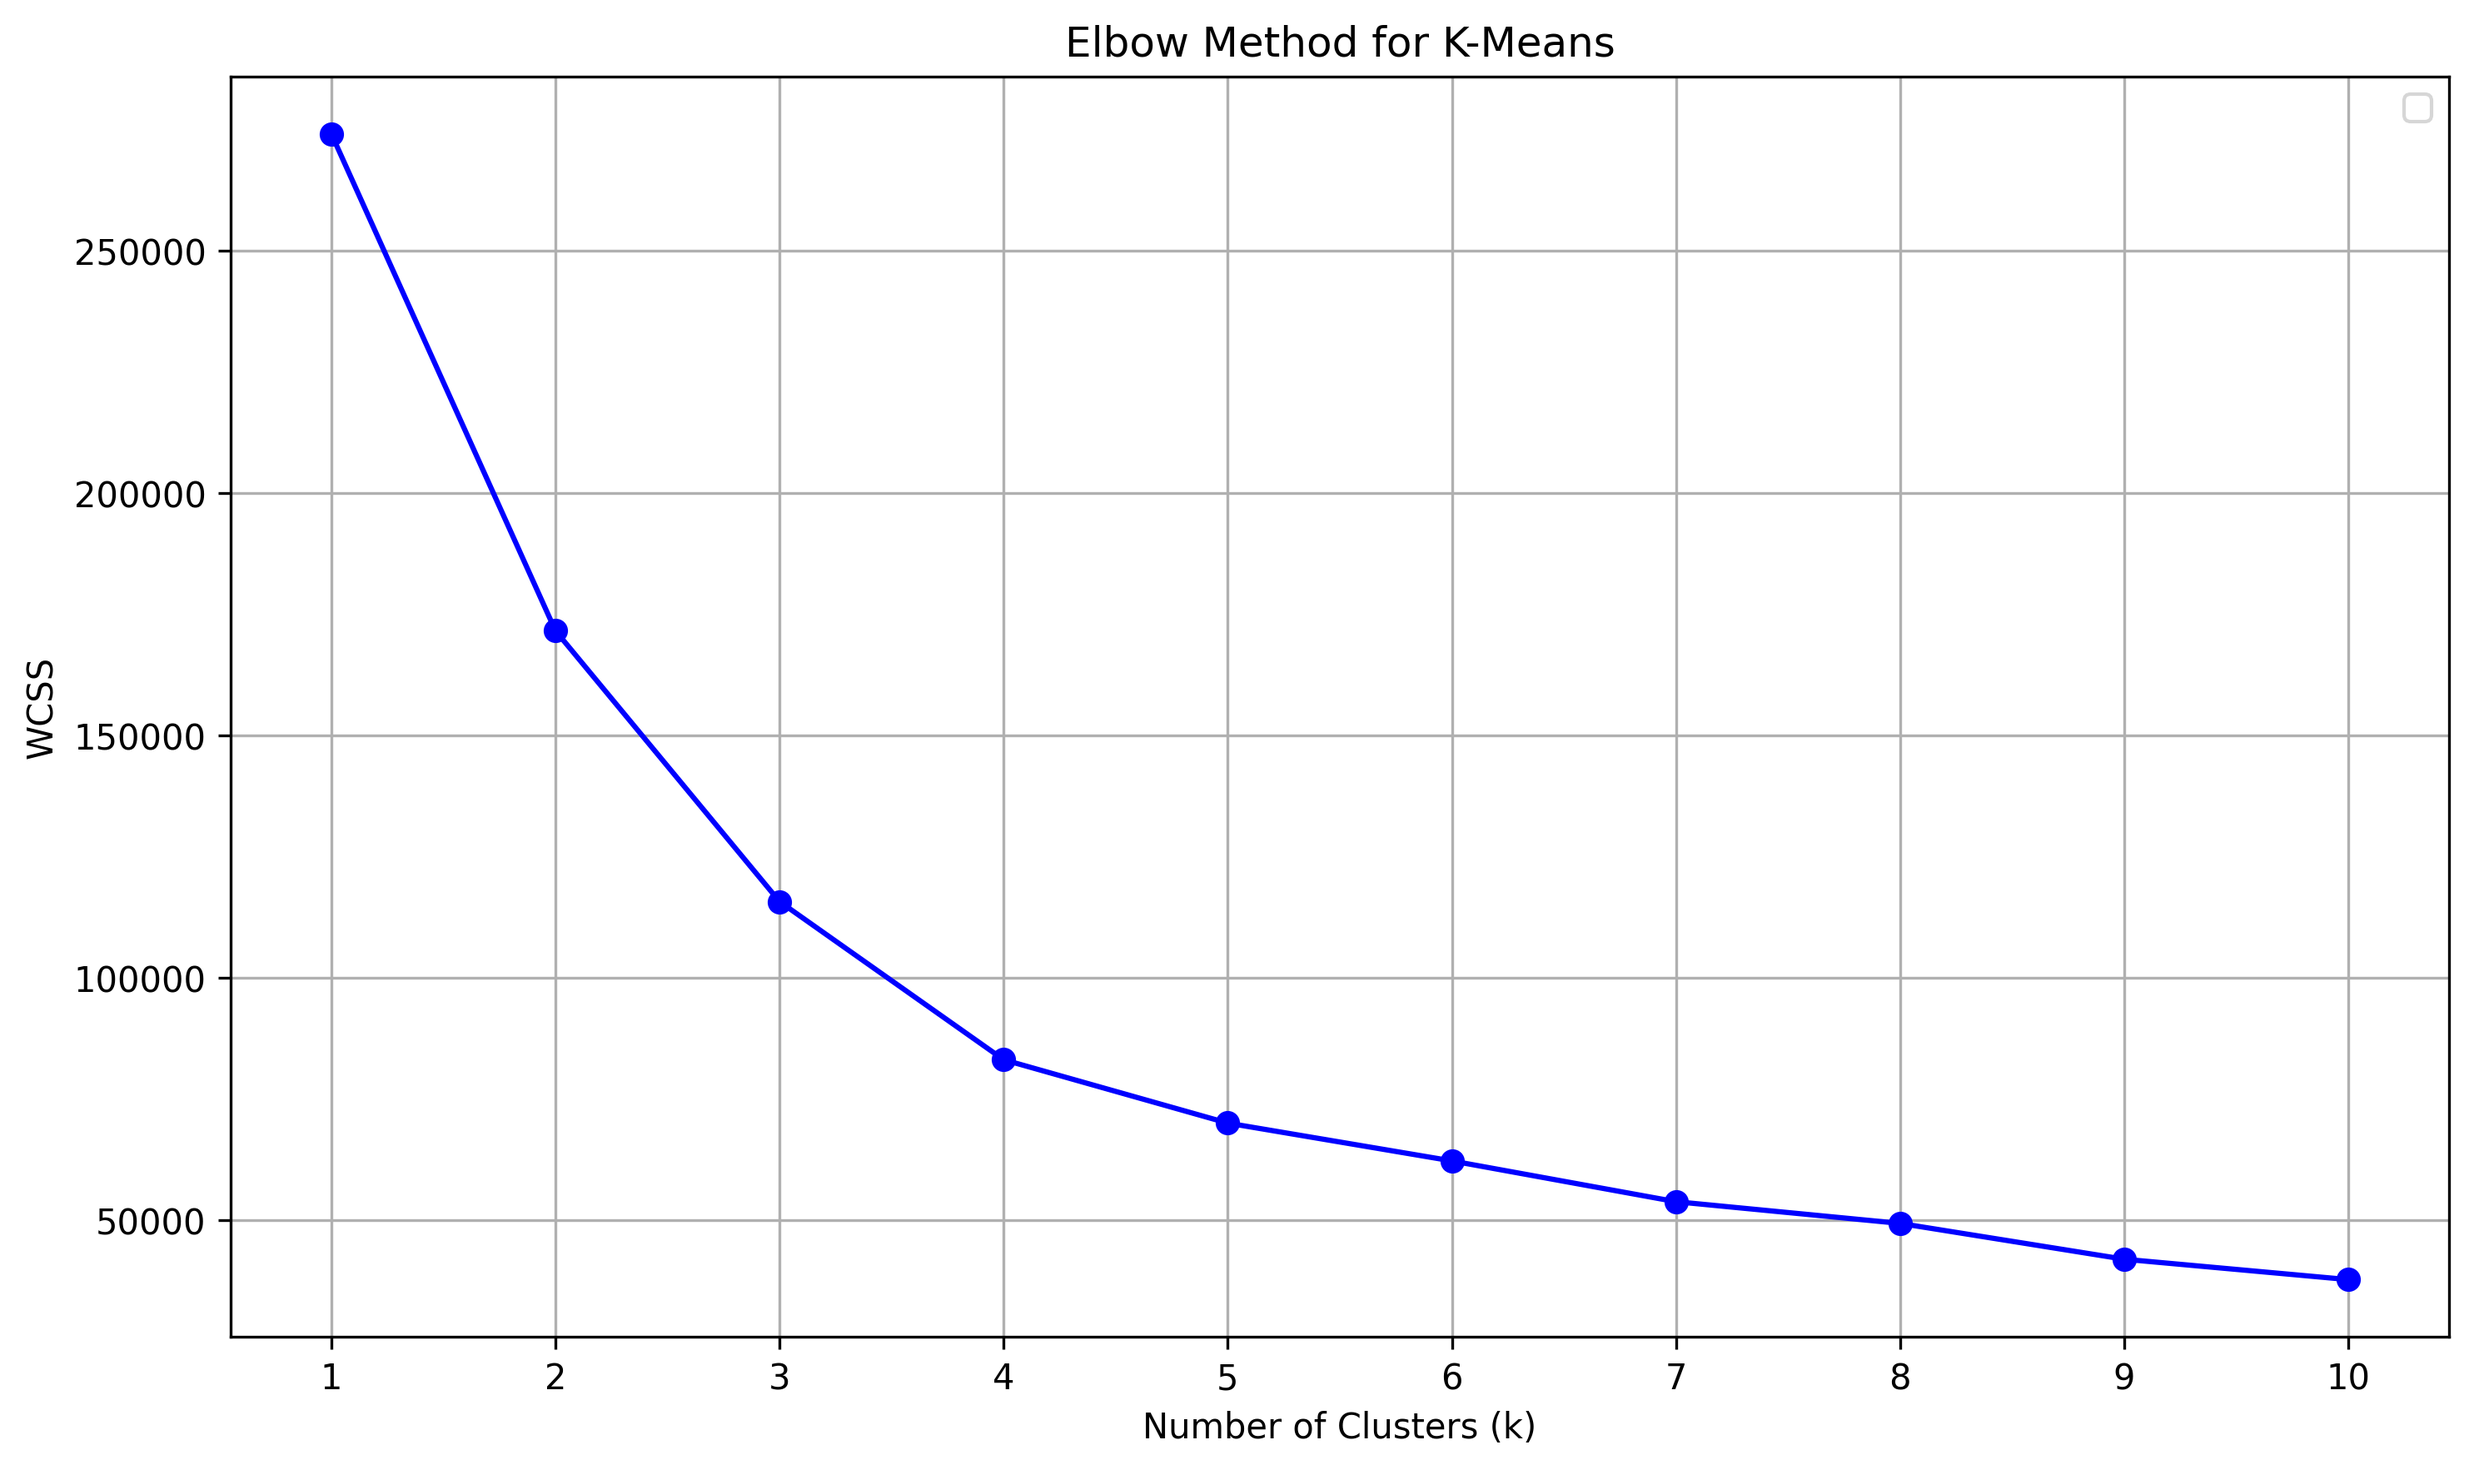
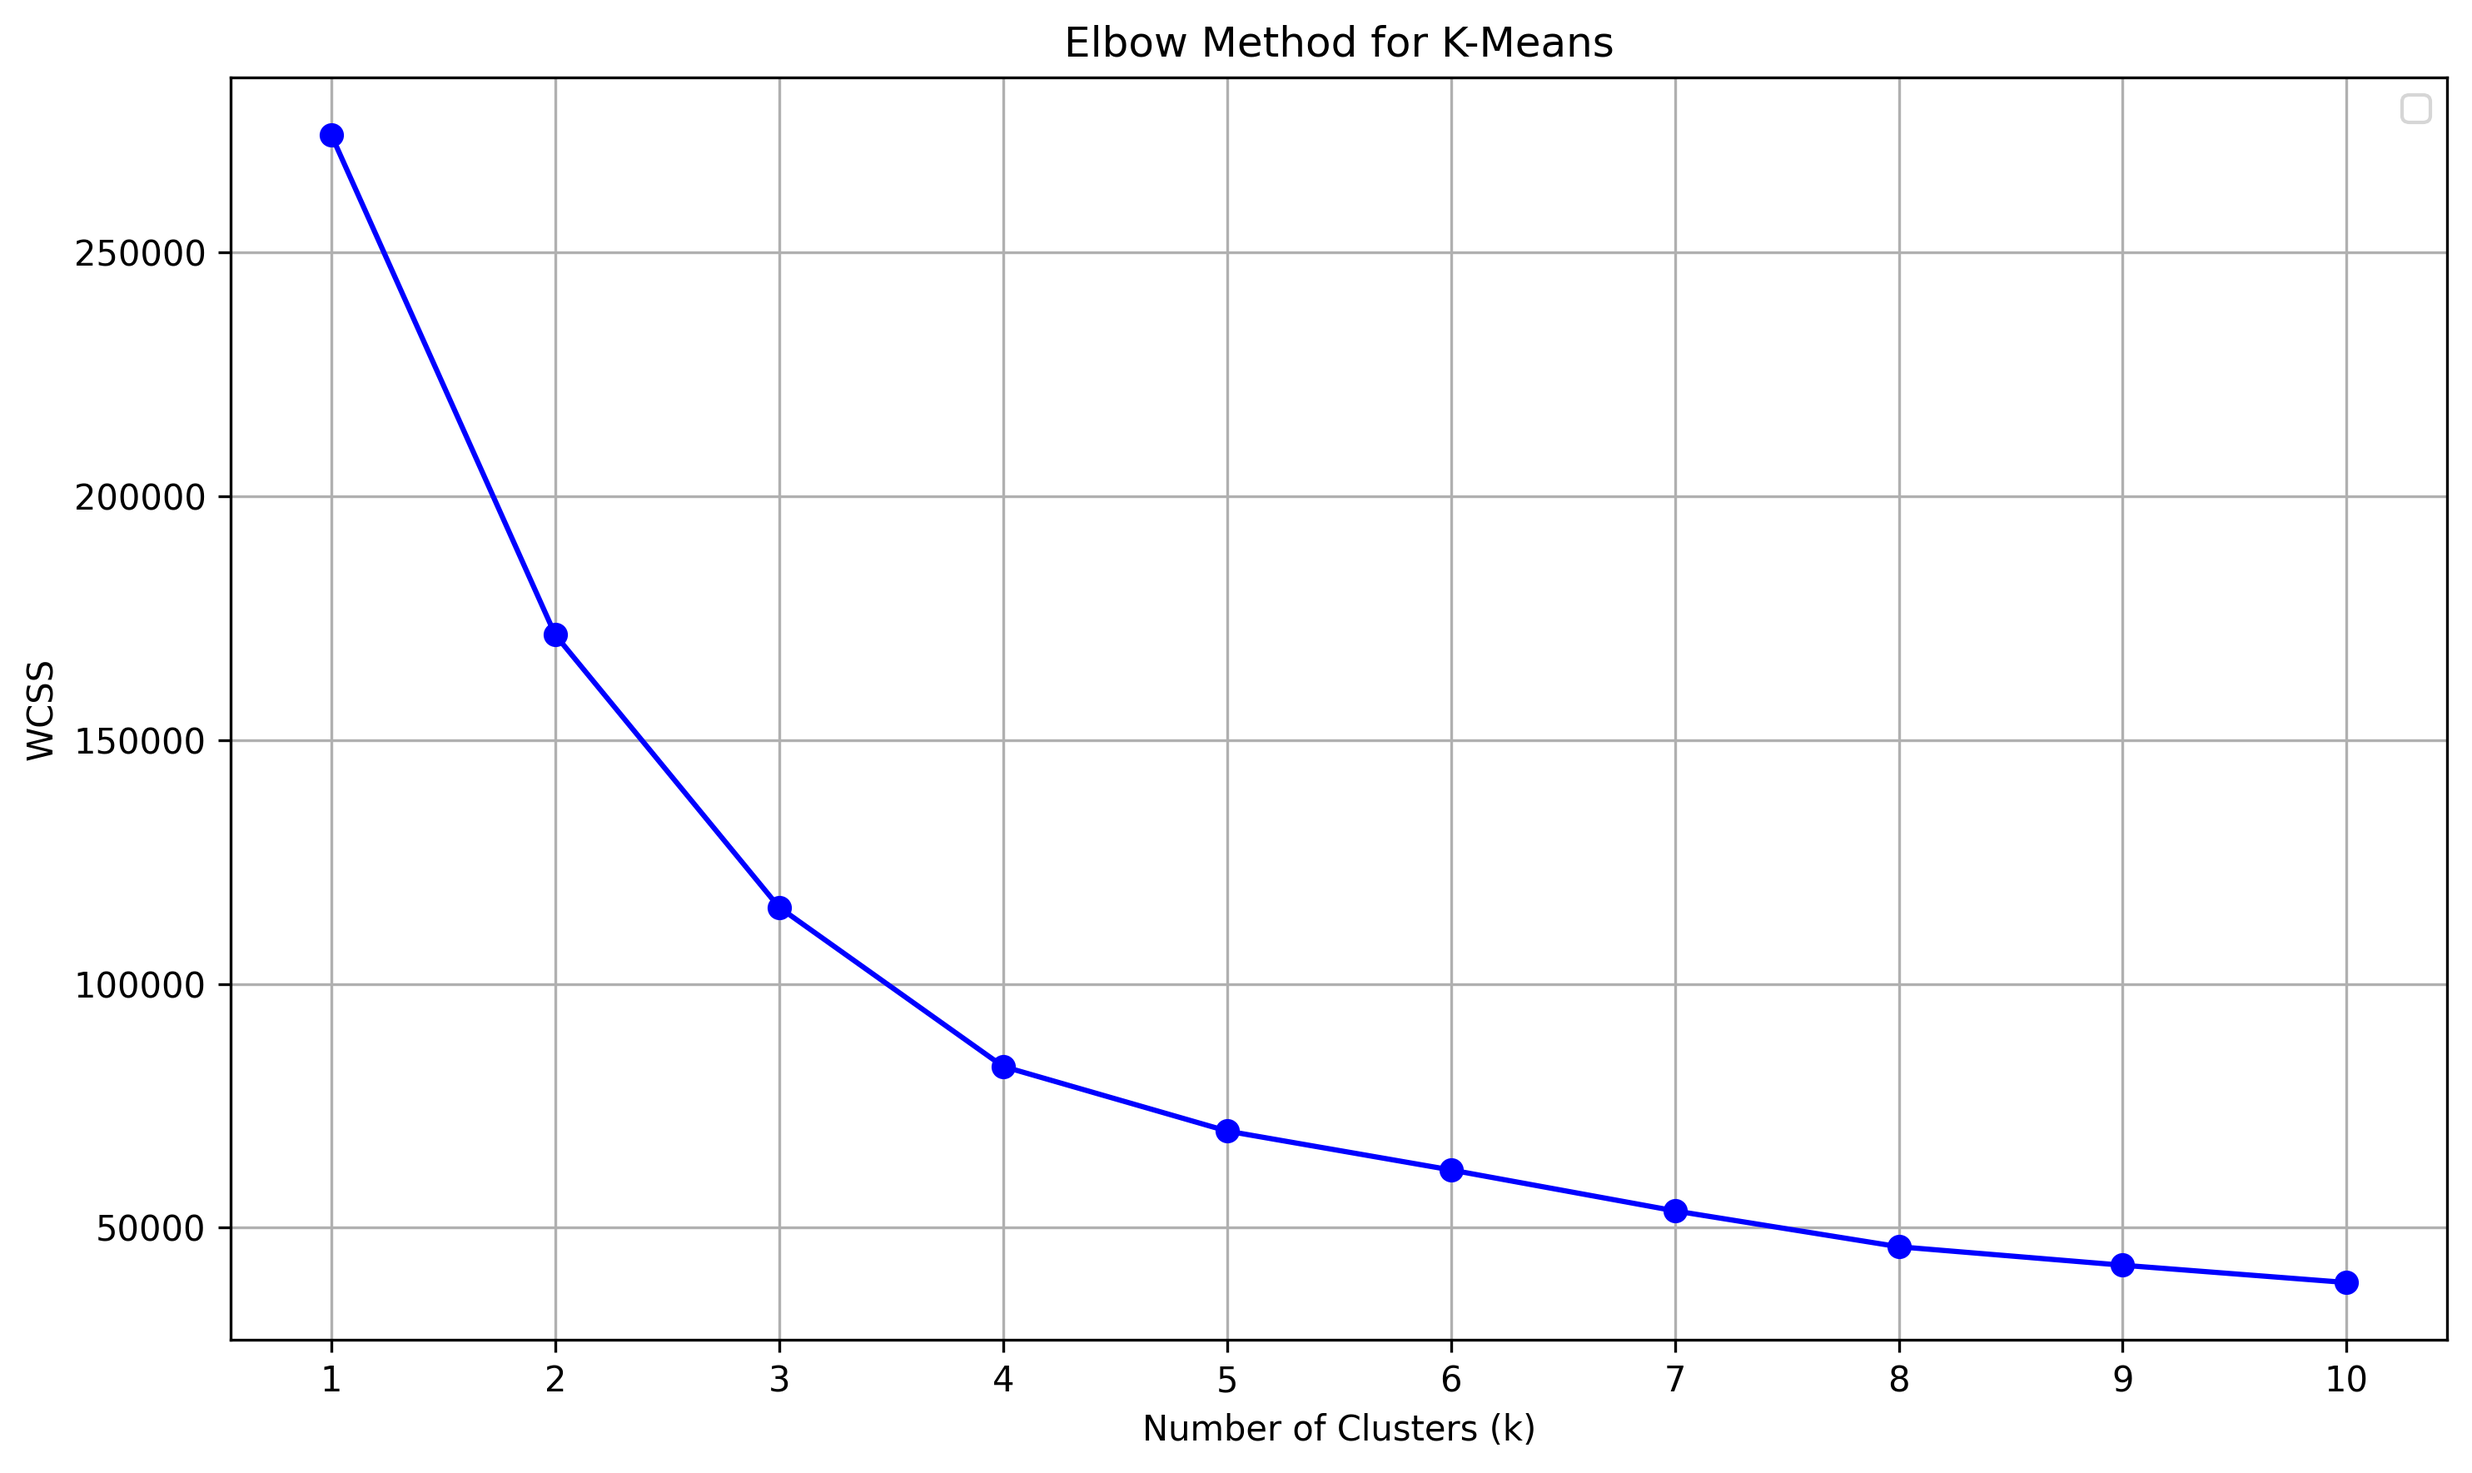
nilai wcss kmeans

diff --git a/09-evaluation/elbow.py b/09-evaluation/elbow.py
@@ -1,4 +1,5 @@
 import pickle
+import numpy as np
 import pandas as pd
 from sklearn.cluster import KMeans
 import matplotlib.pyplot as plt
@@ -31,9 +32,10 @@ RFM_numerical = pd.DataFrame(RFMD_final, columns=['recency', 'frequency', 'monet
 inertias = []
 
 for k in range(1, 11):
-    kmeans = KMeans(n_clusters=k)
+    kmeans = KMeans(n_clusters=k, random_state=42)
     kmeans.fit(RFM_numerical)
     inertias.append(kmeans.inertia_)
+    print("WCSS for k =", k, "is", kmeans.inertia_)
 
 plt.figure(figsize=(10, 6))
 
@@ -68,3 +70,10 @@ plt.legend()
 plt.tight_layout()
 # plt.show()
 plt.savefig('elbow_kmeans.png', dpi=300, bbox_inches='tight')
+
+wcss_diffs = np.diff(inertias)
+percentage_decrease = [-diff/inertias[i] * 100 for i, diff in enumerate(wcss_diffs)]
+
+print("\nPercentage difference between consecutive K values:")
+for i, decrease in enumerate(percentage_decrease):
+    print(f"From K={i+1} to K={i+2}: {decrease:.2f}% decrease")
